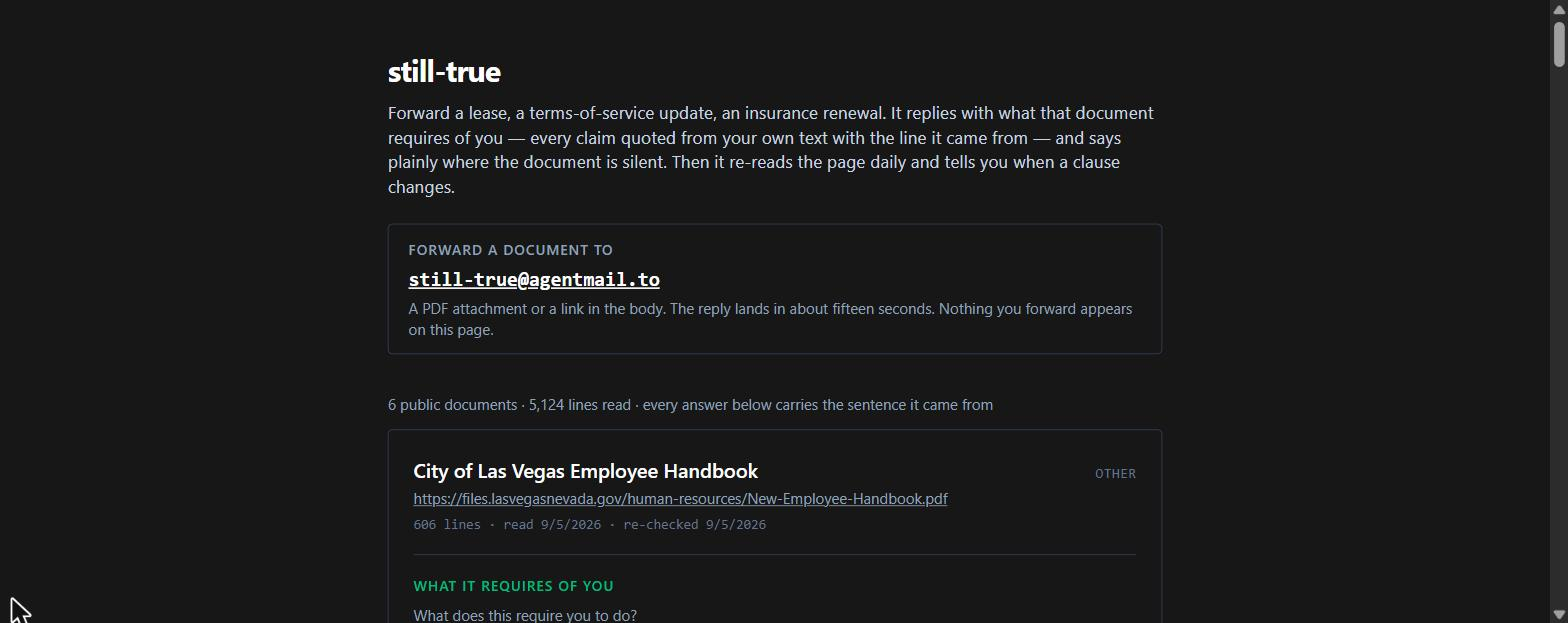
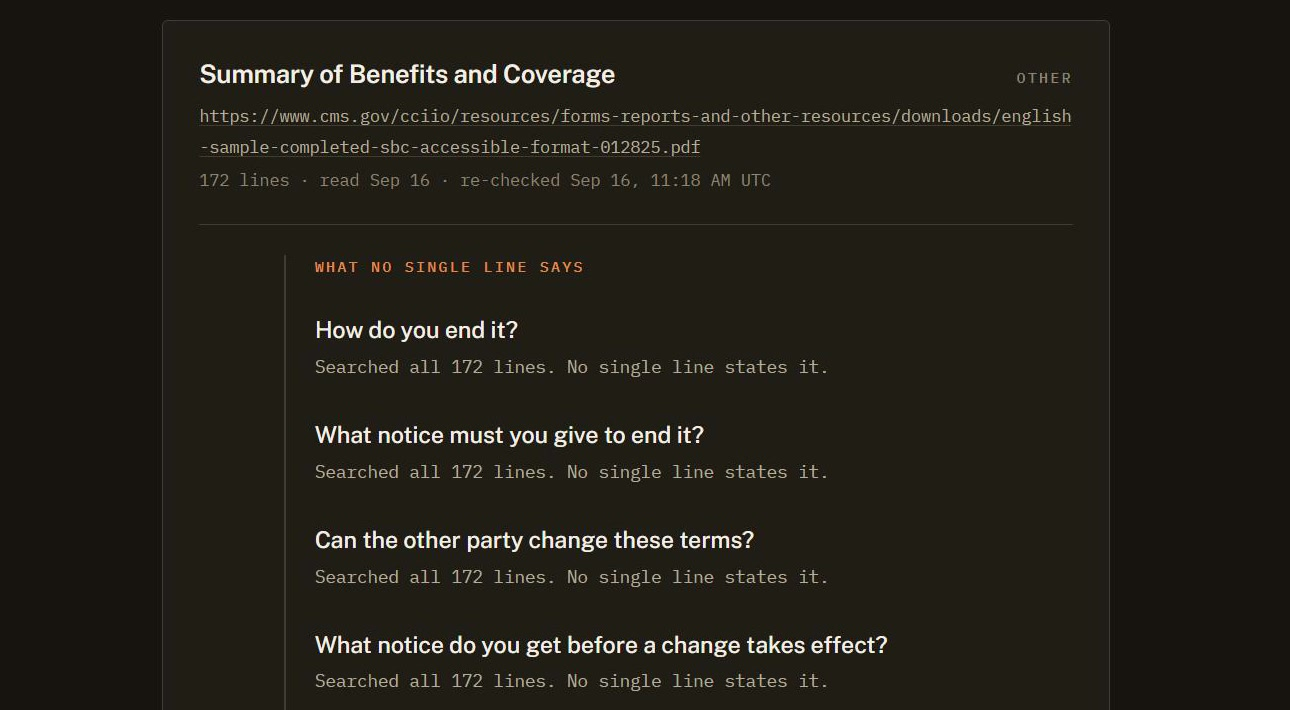
chore: re-shoot the og-image, and frame the refusal instead of the chrome
The old preview was a 09-05 screenshot whose forward-a-document card still read
"about fifteen seconds" — retracted 09-14, fixed in src/App.tsx the same day,
never fixed in the picture. It also carried a mouse cursor, a scrollbar, and a
half-clipped stats line.

Re-shot from production, and moved the frame. The headline and the stats bar are
the part of the page that is both least distinctive and quickest to expire. The
refusal block is neither: four questions the government's own Summary of Benefits
and Coverage cannot answer, each with the number of lines searched. Nothing in
the frame is an aggregate, so a seventh document cannot make it false.

1568x623 -> 1290x710, nearer the 1.91:1 scrapers crop toward.

diff --git a/index.html b/index.html
@@ -43,11 +43,11 @@
       content="Forward a document. Every answer is quoted from your own text with its line number — it tells you what it never says, and when it changes."
     />
     <meta property="og:image" content="https://impressive-marten-163.convex.site/og.jpg" />
-    <meta property="og:image:width" content="1568" />
-    <meta property="og:image:height" content="623" />
+    <meta property="og:image:width" content="1290" />
+    <meta property="og:image:height" content="710" />
     <meta
       property="og:image:alt"
-      content="The still-true board: every published answer carrying the sentence it came from, and a counted refusal where no single line answers."
+      content="The still-true board: the model Summary of Benefits and Coverage, with four questions it cannot answer — each refused with the number of lines searched."
     />
     <meta name="twitter:card" content="summary_large_image" />
     <meta name="twitter:title" content="still-true — what your documents actually require of you" />

diff --git a/hackathon.md b/hackathon.md
@@ -3606,8 +3606,18 @@ reached the page and stopped at the picture of the page.
 Same defect shape as the second renderer, and the second time an asset has
 outlived the claim it depicts. `og:image:alt` had it too — it hard-coded "six
 public documents, 5,124 lines read", a sentence that expires the moment a
-seventh document lands. The alt now describes what the board *is* rather than
-what it currently counts; the JPG still needs re-shooting from the live page.
+seventh document lands. The alt now describes the image rather than
+what the board currently counts.
+
+Re-shot the JPG the same afternoon, and changed what it is a picture of. The old
+one framed the headline, the forward-a-document card and the stats bar — the part
+of the page that is mostly chrome, and the part that expires. The new one frames
+the model Summary of Benefits and Coverage under **WHAT NO SINGLE LINE SAYS**:
+four questions in a row it cannot answer, each refused with the count of lines
+searched, on a cms.gov URL. It is the only thing on the board no other entry in
+this hackathon renders, and it contains no aggregate that a seventh document can
+falsify. Dimensions went 1568×623 to 1290×710, which is nearer the 1.91:1 the
+scrapers actually want; the old ratio was being centre-cropped.
 
 Checked the live board against the submission copy while here. Livonia reads
 **416** lines today, not the 418 the README dates to 09-15 — entry notice at 264,
